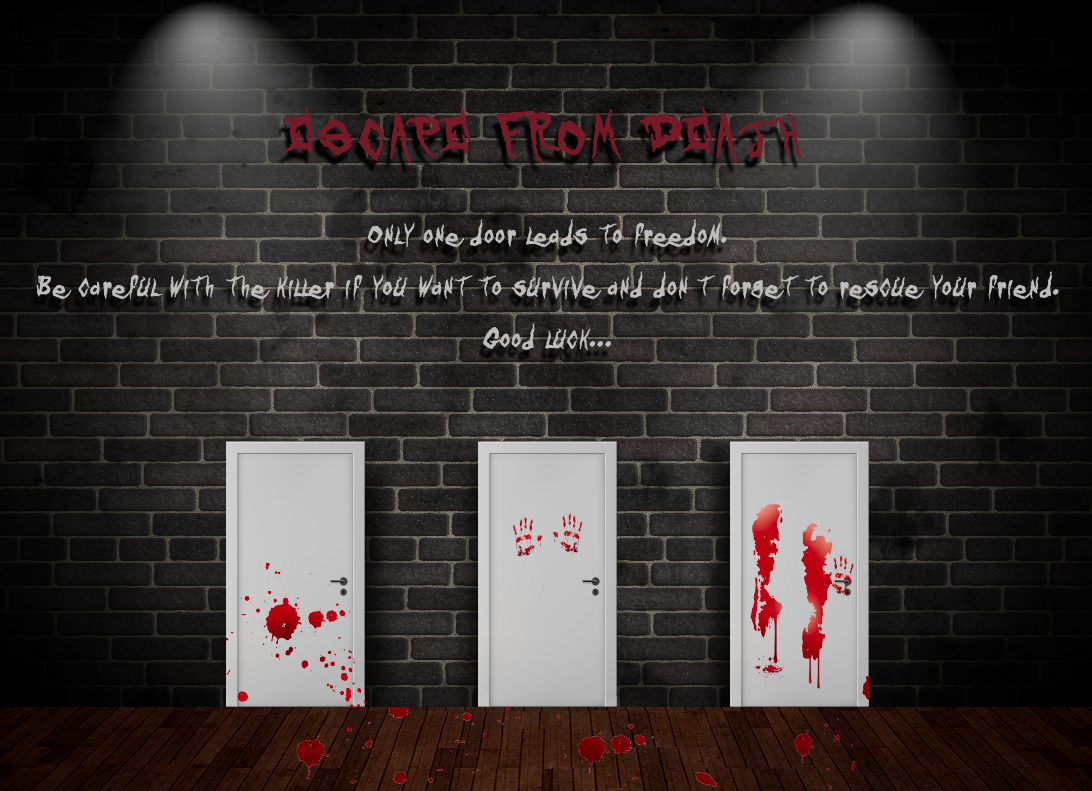
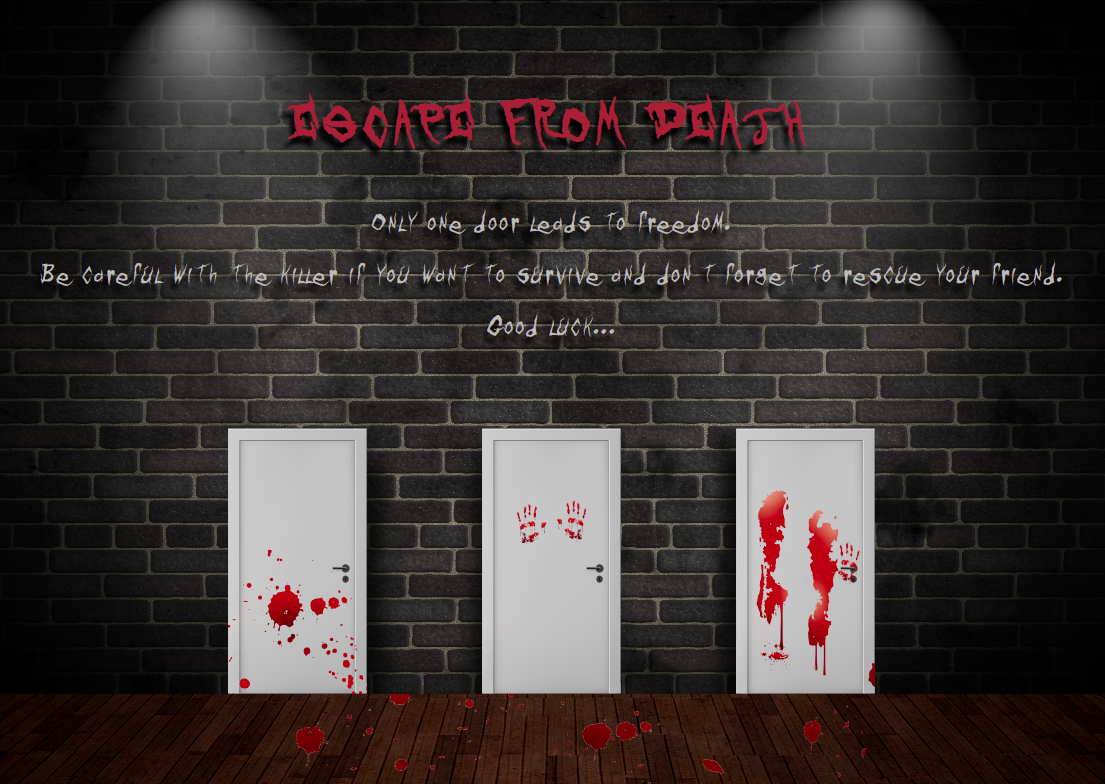
edit escape to death preview image

diff --git a/src/index.js b/src/index.js
@@ -106,7 +106,7 @@ function gameOver(status) {
     message.innerHTML = "You and your friend have survived this time..."
   } else {
     audioKiller.play();
-    message.style.color = '#792626';
+    message.style.color = '#ab3333';
     message.innerHTML = "The killer has found you...Game over."
   }
   tryAgainButton.style.visibility = 'visible';
@@ -120,10 +120,10 @@ startGame();
 
 function blinkTryAgain() {
   let blink = setInterval(BlinkIt, 500);
-  let color = "#792626";
+  let color = "#ab3333";
 
   function BlinkIt() {
-    color = (color == "#bdbdbd")? "#792626" : "#bdbdbd";
+    color = (color == "#bdbdbd")? "#ab3333" : "#bdbdbd";
     tryAgainButton.style.color = color;
   }
   tryAgainButton.onclick = function() {

diff --git a/stylesheets/index.css b/stylesheets/index.css
@@ -8,6 +8,9 @@ body {
   overflow-y: hidden;
   background: #280202;
 }
+body::after {
+  background: black;
+}
 .text-content {
   height: 50%;
   display: flex;
